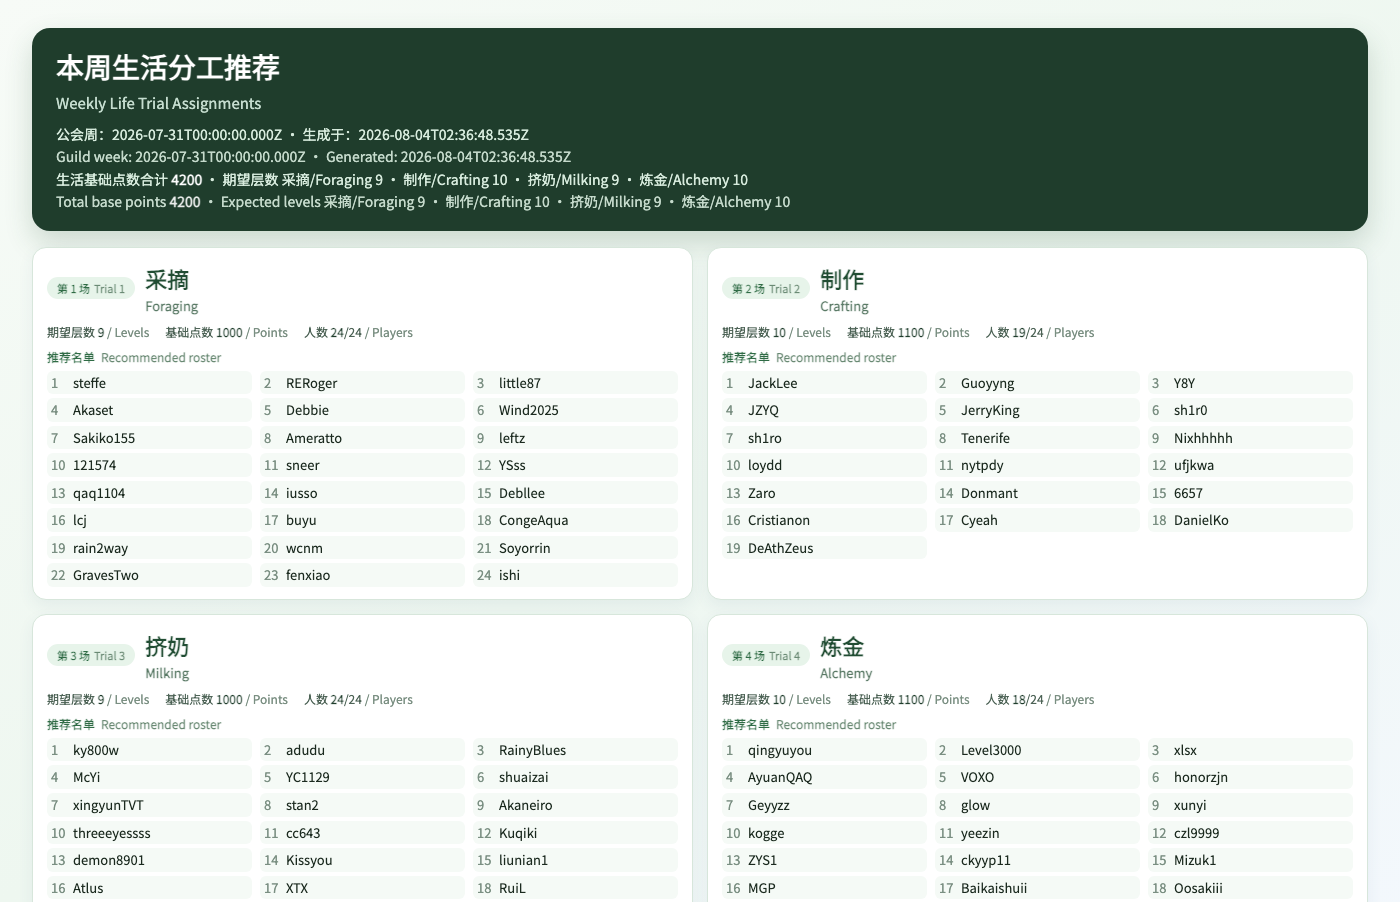
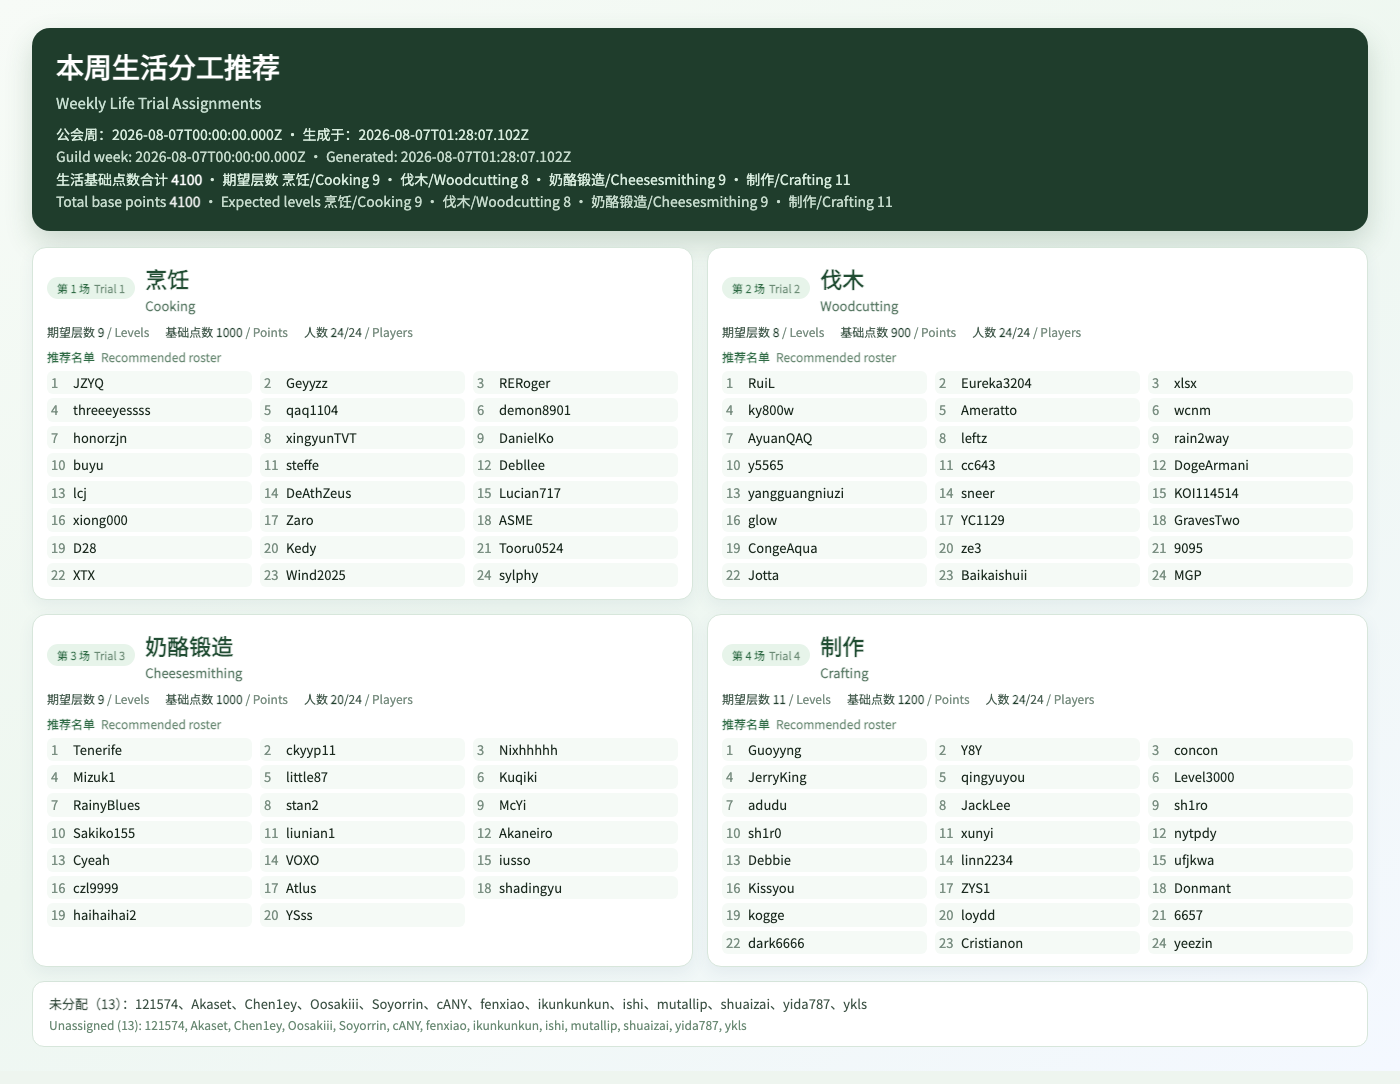
chore: refresh life assignment report (2026-08-07T00:00:00.000Z, 4100 pts)

Changed region(s): [[0.0, 0.0, 0.9829, 0.9933], [0.8293, 0.3725, 0.8907, 0.5898]]

diff --git a/reports/combat-assignment/index.html b/reports/combat-assignment/index.html
@@ -132,7 +132,7 @@
     <div class="header-text">
       <h1><span class="i18n" data-zh="本周分工" data-en="Weekly Assignments">本周分工</span></h1>
       <div class="meta">
-        <span class="i18n" data-zh="战斗方案：" data-en="Combat plan: ">战斗方案：</span>2026-08-04T02:36:48.535Z
+        <span class="i18n" data-zh="战斗方案：" data-en="Combat plan: ">战斗方案：</span>2026-08-07T01:28:07.102Z
         <span class="i18n" data-zh=" · 点选下方条目浏览生活/战斗图片" data-en=" · Pick a tab to browse life/combat images"> · 点选下方条目浏览生活/战斗图片</span>
       </div>
     </div>

diff --git a/reports/life-assignment/README.md b/reports/life-assignment/README.md
@@ -1,8 +1,8 @@
 # 本周生活分工
 
-- 公会周：`2026-07-31T00:00:00.000Z`
-- 生成时间：`2026-08-04T02:36:48.535Z`
-- 基础点数合计：`4200`
+- 公会周：`2026-08-07T00:00:00.000Z`
+- 生成时间：`2026-08-07T01:28:07.102Z`
+- 基础点数合计：`4100`
 
 图片：https://raw.githubusercontent.com/xiahuaaaa/mwi-guild-trial-helper/main/reports/life-assignment/latest.png
 JSON：https://raw.githubusercontent.com/xiahuaaaa/mwi-guild-trial-helper/main/reports/life-assignment/latest.json
